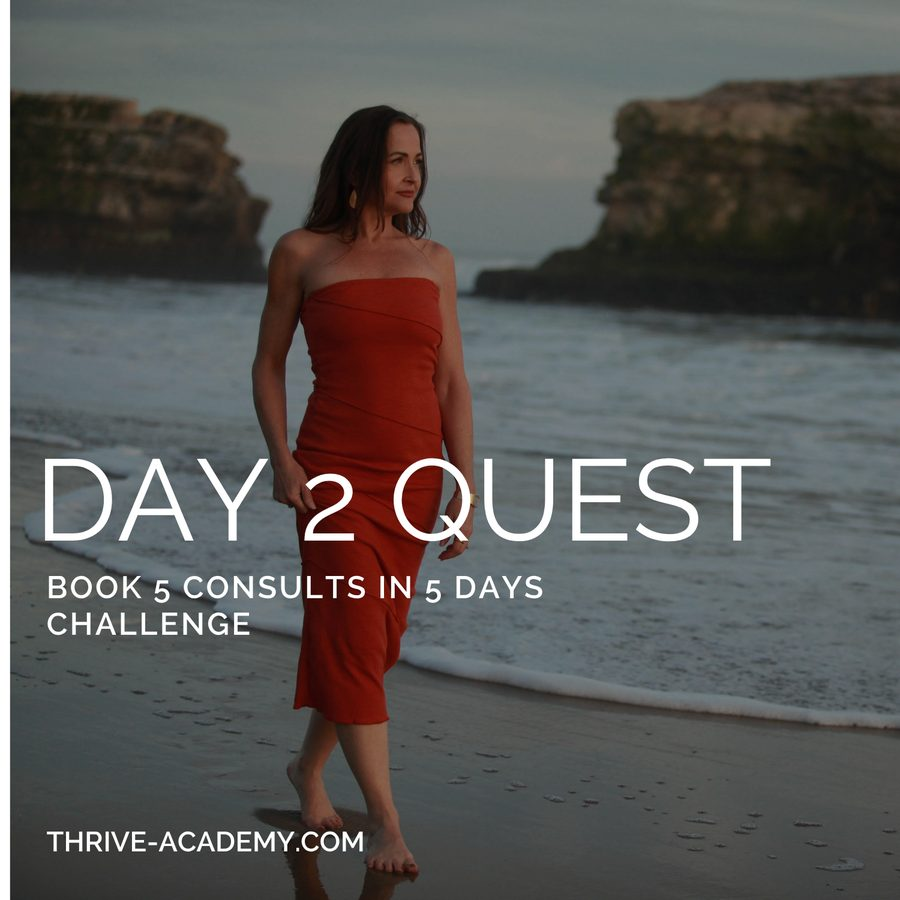
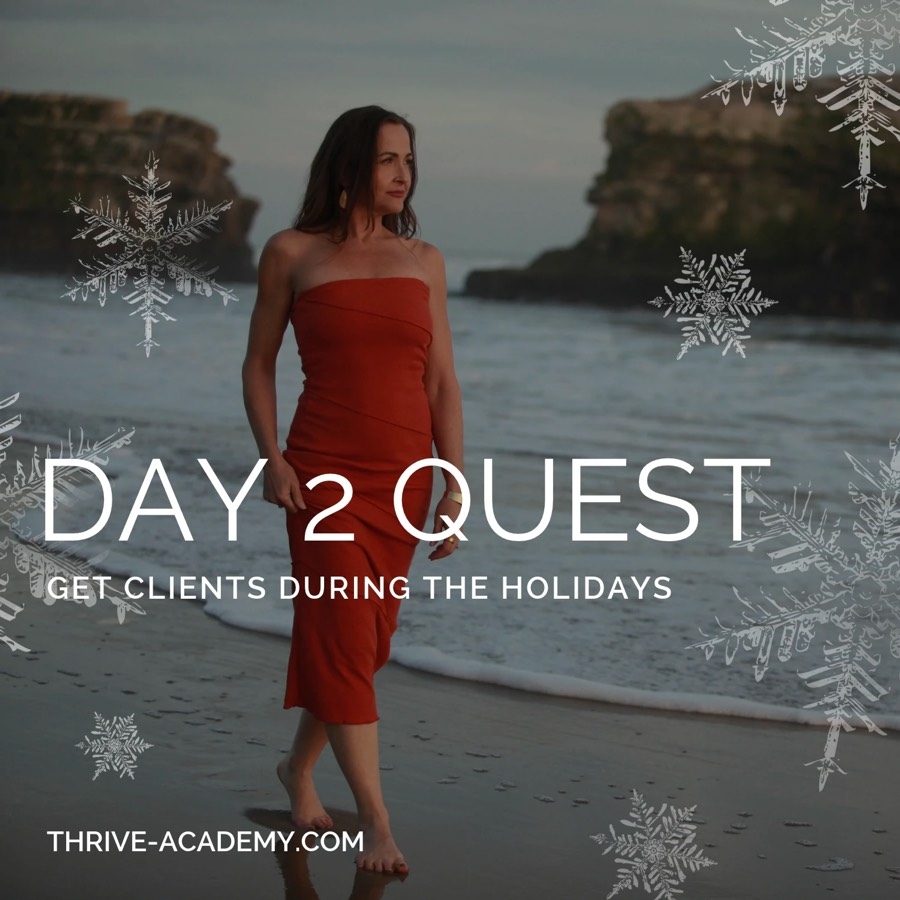
New Quest artwork for Days 1 to 5, and fingerprint it so it actually appears
Ella supplied the holiday Quest graphics on 26 Oct. Converted from 1500px webp
to 900px jpeg at quality 70, matching the width and height the img tag already
hardcodes, so nothing shifts on the page. Roughly 165KB each against 100KB
before, and only one loads per day page, so the cost on a phone is fine.

THE PART THAT MATTERED. The artwork was rendered with a raw src rather than
through m_(), and the quest files were not in the MEDIA map. Replacing the
files alone would have changed nothing a lead could see: Cloudflare would have
kept serving the old artwork from cache for hours. That is precisely how the
masthead logo stayed broken for 27 hours in September, reported by Sharla as
a P2 after I had already said it was fixed.

So all five are now in MEDIA with content hashes and the render uses m_(d.art).
The moment a file changes, its hash changes, and the cache has no say.

Checked the converted Day 1 by eye: text legible, no compression damage.

diff --git a/index.html b/index.html
@@ -1324,7 +1324,7 @@ var CHALLENGE = {
    exactly what happened on 4 September. Each file carries a short hash of its
    own contents, so replacing the file changes the URL and the new one loads.
    Regenerate these whenever a media file is replaced. */
-var MEDIA = {"logo-navy.png":"e76a58c1", "summit-banner.jpg":"232a6c81", "hero.mp4":"85685da3", "hero-poster.jpg":"22612919", "welcome.mp4":"cf61e919", "welcome-poster.jpg":"6ec137a9"};
+var MEDIA = {"logo-navy.png":"e76a58c1", "summit-banner.jpg":"232a6c81", "hero.mp4":"85685da3", "hero-poster.jpg":"22612919", "welcome.mp4":"cf61e919", "welcome-poster.jpg":"6ec137a9", "quest-day1.jpg":"a8546bce", "quest-day2.jpg":"28ee402c", "quest-day3.jpg":"8534965c", "quest-day4.jpg":"f2194816", "quest-day5.jpg":"63a6514f"};
 function m_(f){ return MEDIA[f] ? f+"?v="+MEDIA[f] : f; }
 
 var ZOOM=CHALLENGE.links.zoom, PASSCODE=CHALLENGE.links.passcode, SUMMIT=CHALLENGE.links.summit,
@@ -2127,7 +2127,10 @@ function vDay(n){
   /* The same square artwork that heads that day's post in the Facebook Group,
      so the Hub and the Group read as one thing rather than two. */
   var art = (d.art && !before)
-   ? '<div class="questart"><img src="'+d.art+'" alt="Day '+n+' Quest" width="900" height="900" loading="lazy"></div>'
+   /* m_() not a raw src. These files were replaced on 26 Oct and without a
+      fingerprint Cloudflare would have gone on serving the old artwork for
+      hours, which is exactly how the masthead logo stayed broken for 27. */
+   ? '<div class="questart"><img src="'+m_(d.art)+'" alt="Day '+n+' Quest" width="900" height="900" loading="lazy"></div>'
    : '';
 
   var quest = !isQuestDay(d)
